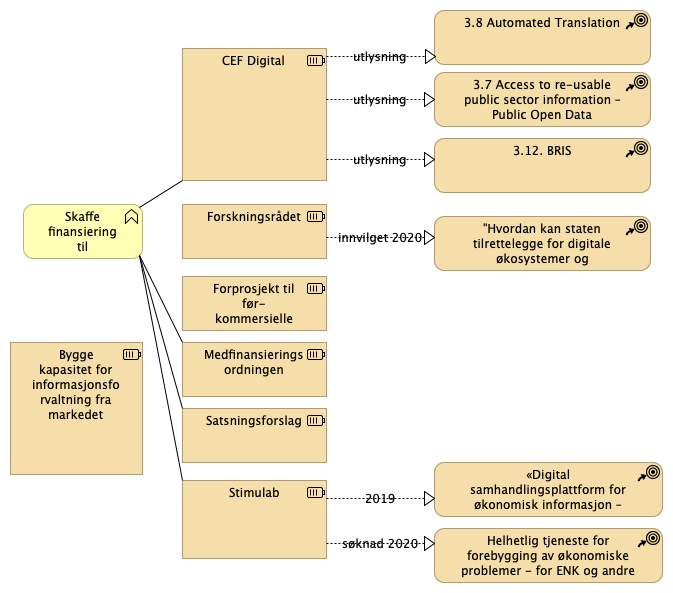
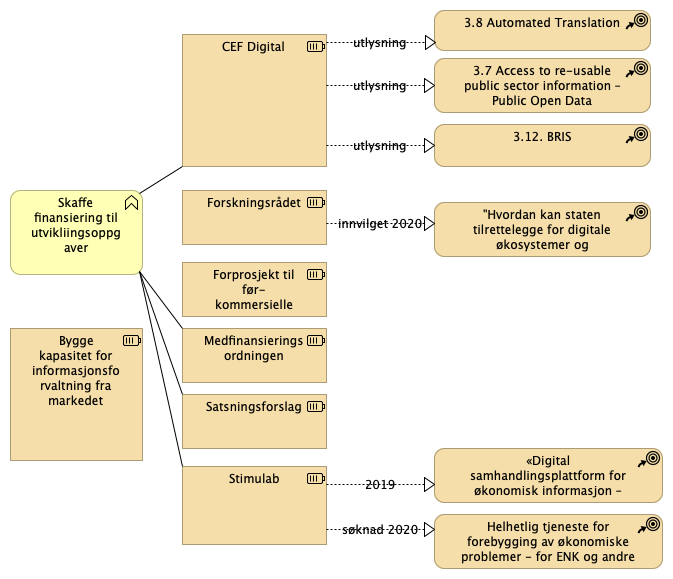
alle

diff --git a/docs/index.html b/docs/index.html
@@ -6602,34 +6602,31 @@
 													<li class="tree-element"><a href="id-0322705d/views/id-ae7a07ff-560a-4ee5-bb5e-4209e7fe1ad7.html" target="view"> OPS Fiskeri Organisering </a></li>
 
 									</ul>
-									</li><li class="tree-folder"><span><i class="glyphicon glyphicon-triangle-right"></i> Tiltak: eBevis </span>
-									<ul>
-													<li class="tree-element"><a href="id-0322705d/views/id-fbf96127-5b08-434a-8238-e8be6e1dd333.html" target="view"> Dokumentasjonsbevis </a></li>
-
-									</ul>
 									</li><li class="tree-folder"><span><i class="glyphicon glyphicon-triangle-right"></i> OPS Energi </span>
 									<ul>
 													<li class="tree-element"><a href="id-0322705d/views/id-5dade1fe-f679-4ad7-92e1-ae2fa38d5638.html" target="view"> OPS Energi Organisering </a></li>
 
 									</ul>
-									</li><li class="tree-folder"><span><i class="glyphicon glyphicon-triangle-right"></i> Datadreven utvikling </span>
+									</li><li class="tree-folder"><span><i class="glyphicon glyphicon-triangle-right"></i> BR Organisering og Oppgaver DU </span>
 									<ul>
-													<li class="tree-element"><a href="id-0322705d/views/id-b68aa9a6-af9c-462a-a1f2-58fa3a24ccb5.html" target="view"> Funksjoner DU </a></li>
-													<li class="tree-element"><a href="id-0322705d/views/id-5e897cc8-b9cf-4923-85ce-6d3dbacc1854.html" target="view"> Kapabiliteter DU </a></li>
-													<li class="tree-element"><a href="id-0322705d/views/id-fdd09a54-40d4-4387-a013-e320820d11c4.html" target="view"> Kapabiliteter informasjonsforvaltning detaljert </a></li>
-													<li class="tree-element"><a href="id-0322705d/views/id-6ef4d0d0-d5dd-4c4e-9847-530d4740ff40.html" target="view"> Kapabiliteter informasjonsforvaltning </a></li>
 													<li class="tree-element"><a href="id-0322705d/views/id-3389b170-07ce-484c-b70a-a92ce2b87f3b.html" target="view"> DU oppgaver </a></li>
 													<li class="tree-element"><a href="id-0322705d/views/id-cfd26d92-cf31-4c1c-969f-2cd84c655996.html" target="view"> DU oppgaver fordeling </a></li>
-													<li class="tree-element"><a href="id-0322705d/views/b2ff6798-cd7a-4acb-848a-df242cb8a83b.html" target="view"> Begreper </a></li>
-
-									</ul>
-									</li><li class="tree-folder"><span><i class="glyphicon glyphicon-triangle-right"></i> Tiltak </span>
-									<ul>
-													<li class="tree-element"><a href="id-0322705d/views/id-bc000f19-79e0-40e3-8402-840b3177a91d.html" target="view"> Tiltak Alle </a></li>
 
 									</ul>
 									</li><li class="tree-folder"><span><i class="glyphicon glyphicon-triangle-right"></i> OPS Finans (DSOP) </span>
 									<ul>
+										<li class="tree-folder"><span><i class="glyphicon glyphicon-triangle-right"></i> Tiltak: Digital selskapsetablering </span>
+											<ul>
+															<li class="tree-element"><a href="id-0322705d/views/id-fdb2561f.html" target="view"> Stiftelse av aksjeselskap </a></li>
+															<li class="tree-element"><a href="id-0322705d/views/id-0d6c834d-8650-4ffa-9906-c83b3e62c83c.html" target="view"> Digital Selskapsetablering </a></li>
+
+											</ul>
+											</li><li class="tree-folder"><span><i class="glyphicon glyphicon-triangle-right"></i> Tiltak: Samtykkebasert lånesøknad </span>
+											<ul>
+															<li class="tree-element"><a href="id-0322705d/views/id-76dcaf83.html" target="view"> EFF-Altinn samtykke </a></li>
+
+											</ul>
+											</li>
 													<li class="tree-element"><a href="id-0322705d/views/id-b8a2070e-1f3c-4765-bcf3-1e1262d0ae2f.html" target="view"> DSOP Organisering </a></li>
 													<li class="tree-element"><a href="id-0322705d/views/id-c321509b-ab14-4518-84a6-b6e860ea312f.html" target="view"> DSOP Seminar </a></li>
 
@@ -6643,16 +6640,24 @@
 															<li class="tree-element"><a href="id-0322705d/views/id-ad96c24b-b7ef-4ef9-8ce0-36fb66c126a5.html" target="view"> Business Process Kj&#248;p og salg av eiendom </a></li>
 
 											</ul>
+											</li><li class="tree-folder"><span><i class="glyphicon glyphicon-triangle-right"></i> Tiltak: Nasjonal termbase </span>
+											<ul>
+															<li class="tree-element"><a href="id-0322705d/views/id-6892547c-7db5-41e1-901c-516d6dd8ac38.html" target="view"> Optrinn: Nasjonal termbase for produktinformasjon </a></li>
+
+											</ul>
+											</li><li class="tree-folder"><span><i class="glyphicon glyphicon-triangle-right"></i> Tiltak: Produktkatalog </span>
+											<ul>
+															<li class="tree-element"><a href="id-0322705d/views/id-e3105262-32a7-465f-9514-6c583a2c910c.html" target="view"> Produktkatalog </a></li>
+
+											</ul>
 											</li>
-													<li class="tree-element"><a href="id-0322705d/views/id-6892547c-7db5-41e1-901c-516d6dd8ac38.html" target="view"> Optrinn: Nasjonal termbase for produktinformasjon </a></li>
 													<li class="tree-element"><a href="id-0322705d/views/id-615ff790-0373-4f18-acf6-a7c9263a9eec.html" target="view"> OPS Bygg Organisering </a></li>
-													<li class="tree-element"><a href="id-0322705d/views/id-e3105262-32a7-465f-9514-6c583a2c910c.html" target="view"> Produktkatalog </a></li>
 													<li class="tree-element"><a href="id-0322705d/views/id-8f152feb-443a-44f3-9e06-ffa7ef3c705b.html" target="view"> OPS Bygg Tiltak </a></li>
 
 									</ul>
-									</li><li class="tree-folder"><span><i class="glyphicon glyphicon-triangle-right"></i> Arenaer </span>
+									</li><li class="tree-folder"><span><i class="glyphicon glyphicon-triangle-right"></i> BR Eksterne arenaer DU </span>
 									<ul>
-													<li class="tree-element"><a href="id-0322705d/views/id-ba050ff7-db2a-47de-84e9-d0b5ea75b589.html" target="view"> Arenaer private-offentlig (Norstella, Open Innovation Lab) </a></li>
+													<li class="tree-element"><a href="id-0322705d/views/id-ba050ff7-db2a-47de-84e9-d0b5ea75b589.html" target="view"> Arenaer Private-offentlig (Norstella, Open Innovation Lab) </a></li>
 													<li class="tree-element"><a href="id-0322705d/views/id-c8de703a-e41c-4fca-8f6f-d56544dbb18f.html" target="view"> Arenaer Offentlige </a></li>
 
 									</ul>
@@ -6663,28 +6668,20 @@
 													<li class="tree-element"><a href="id-0322705d/views/id-06388a03-b47c-4f8d-b36f-e285c281de4c.html" target="view"> Tiltak OPS </a></li>
 
 									</ul>
-									</li><li class="tree-folder"><span><i class="glyphicon glyphicon-triangle-right"></i> Tiltak: Grunn </span>
-									<ul>
-									</ul>
-									</li><li class="tree-folder"><span><i class="glyphicon glyphicon-triangle-right"></i> Tiltak: Samtykkebasert lånesøknad </span>
-									<ul>
-													<li class="tree-element"><a href="id-0322705d/views/id-76dcaf83.html" target="view"> EFF-Altinn samtykke </a></li>
-
-									</ul>
-									</li><li class="tree-folder"><span><i class="glyphicon glyphicon-triangle-right"></i> Tiltak: Digital selskapsetablering </span>
-									<ul>
-													<li class="tree-element"><a href="id-0322705d/views/id-fdb2561f.html" target="view"> Stiftelse av aksjeselskap </a></li>
-													<li class="tree-element"><a href="id-0322705d/views/id-0d6c834d-8650-4ffa-9906-c83b3e62c83c.html" target="view"> Digital Selskapsetablering </a></li>
-
-									</ul>
 									</li><li class="tree-folder"><span><i class="glyphicon glyphicon-triangle-right"></i> OPS Landbruk </span>
 									<ul>
-													<li class="tree-element"><a href="id-0322705d/views/id-94381a75-4449-4ca3-8db7-c6d6c2c6c875.html" target="view"> OPS Landbruk Eierskap til data B&#230;rekraftsdata </a></li>
+										<li class="tree-folder"><span><i class="glyphicon glyphicon-triangle-right"></i> Tiltak: Eierskap </span>
+											<ul>
+															<li class="tree-element"><a href="id-0322705d/views/id-5c2fd4f1-eeaf-4fc0-b4b7-b1951096e8c8.html" target="view"> Prosjekt: Eierskap til data i landbruk, havbruk og myndigheter workshop </a></li>
+															<li class="tree-element"><a href="id-0322705d/views/id-94381a75-4449-4ca3-8db7-c6d6c2c6c875.html" target="view"> OPS Landbruk Eierskap til data B&#230;rekraftsdata </a></li>
+															<li class="tree-element"><a href="id-0322705d/views/id-6b653323-c4dc-4d83-b4cc-8d9aca45cfb7.html" target="view"> OPS Landbruk Eierskapsmodell </a></li>
+															<li class="tree-element"><a href="id-0322705d/views/id-a71c078f-7731-4841-a97e-a94969fcf7fd.html" target="view"> OPS Landbruk Kickoff </a></li>
+															<li class="tree-element"><a href="id-0322705d/views/id-b1ae1a17-19f8-4930-8b27-c69ba70474cf.html" target="view"> B&#230;rekraft </a></li>
+
+											</ul>
+											</li>
 													<li class="tree-element"><a href="id-0322705d/views/id-bee9a375-3ad5-4704-8a63-47ffc7585462.html" target="view"> OPS Landbruk Tiltak </a></li>
-													<li class="tree-element"><a href="id-0322705d/views/id-b1ae1a17-19f8-4930-8b27-c69ba70474cf.html" target="view"> B&#230;rekraft </a></li>
 													<li class="tree-element"><a href="id-0322705d/views/id-1f8471a7-e00e-4d7d-88b1-596d06dd9de6.html" target="view"> OPS Landbruk Organisering </a></li>
-													<li class="tree-element"><a href="id-0322705d/views/id-6b653323-c4dc-4d83-b4cc-8d9aca45cfb7.html" target="view"> OPS Landbruk Eierskapsmodell </a></li>
-													<li class="tree-element"><a href="id-0322705d/views/id-a71c078f-7731-4841-a97e-a94969fcf7fd.html" target="view"> OPS Landbruk Kickoff </a></li>
 
 									</ul>
 									</li><li class="tree-folder"><span><i class="glyphicon glyphicon-triangle-right"></i> BR Registre </span>
@@ -6693,17 +6690,16 @@
 													<li class="tree-element"><a href="id-0322705d/views/id-c2a9729f-a8ce-44f1-a67f-eb549720fbc6.html" target="view"> Oppdragsgivere </a></li>
 
 									</ul>
-									</li><li class="tree-folder"><span><i class="glyphicon glyphicon-triangle-right"></i> Tiltak: Eierskap </span>
-									<ul>
-													<li class="tree-element"><a href="id-0322705d/views/id-5c2fd4f1-eeaf-4fc0-b4b7-b1951096e8c8.html" target="view"> Prosjekt: Eierskap til data i landbruk, havbruk og myndigheter workshop </a></li>
-
-									</ul>
 									</li><li class="tree-folder"><span><i class="glyphicon glyphicon-triangle-right"></i> OPS Økonomi </span>
 									<ul>
+										<li class="tree-folder"><span><i class="glyphicon glyphicon-triangle-right"></i> Tiltak: Gjeldsfloka </span>
+											<ul>
+															<li class="tree-element"><a href="id-0322705d/views/3127e748-bef0-488e-826e-7c8f74534790.html" target="view"> &#171;Digital samhandlingsplattform for &#248;konomisk informasjon &#8211; gjeldsr&#229;dgivning&#187; aka "Gjeldsfloka" for Enkeltpersonforetak/Profesjonelle verger </a></li>
+
+											</ul>
+											</li>
 													<li class="tree-element"><a href="id-0322705d/views/id-f23e149a-e1e4-4cb2-b86f-aabb3e79aff4.html" target="view"> OPS &#216;konomi Organisering </a></li>
-													<li class="tree-element"><a href="id-0322705d/views/id-a89ba9e4-0c9b-4d80-b1b5-528c3adf167e.html" target="view"> Gjeldsr&#229;dgiving </a></li>
 													<li class="tree-element"><a href="id-0322705d/views/be0a9093-4101-4c42-b556-f277e6303c03.html" target="view"> OPS &#216;konomi Tiltak </a></li>
-													<li class="tree-element"><a href="id-0322705d/views/3127e748-bef0-488e-826e-7c8f74534790.html" target="view"> &#171;Digital samhandlingsplattform for &#248;konomisk informasjon &#8211; gjeldsr&#229;dgivning&#187; aka "Gjeldsfloka" for Enkeltpersonforetak/Profesjonelle verger </a></li>
 
 									</ul>
 									</li><li class="tree-folder"><span><i class="glyphicon glyphicon-triangle-right"></i> OPS Havbruk </span>
@@ -6725,9 +6721,37 @@
 													<li class="tree-element"><a href="id-0322705d/views/id-ce8c911d-b6bc-42d0-ba95-c33c240261c2.html" target="view"> Digitaliseringstrategien </a></li>
 
 									</ul>
+									</li><li class="tree-folder"><span><i class="glyphicon glyphicon-triangle-right"></i> Samarbeid Tilsyn </span>
+									<ul>
+									</ul>
+									</li><li class="tree-folder"><span><i class="glyphicon glyphicon-triangle-right"></i> Samarbeid Eierskap og svart økonomi </span>
+									<ul>
+										<li class="tree-folder"><span><i class="glyphicon glyphicon-triangle-right"></i> Tiltak: eBevis </span>
+											<ul>
+															<li class="tree-element"><a href="id-0322705d/views/id-fbf96127-5b08-434a-8238-e8be6e1dd333.html" target="view"> Dokumentasjonsbevis </a></li>
+
+											</ul>
+											</li>
+									</ul>
+									</li><li class="tree-folder"><span><i class="glyphicon glyphicon-triangle-right"></i> Samarbeid Virkemidler og tilskudd </span>
+									<ul>
+									</ul>
+									</li><li class="tree-folder"><span><i class="glyphicon glyphicon-triangle-right"></i> Livshendelse: Starte og Drive frivillig virksomhet </span>
+									<ul>
+									</ul>
+									</li><li class="tree-folder"><span><i class="glyphicon glyphicon-triangle-right"></i> BR Evner DU </span>
+									<ul>
+													<li class="tree-element"><a href="id-0322705d/views/id-6ef4d0d0-d5dd-4c4e-9847-530d4740ff40.html" target="view"> Kapabiliteter informasjonsforvaltning </a></li>
+													<li class="tree-element"><a href="id-0322705d/views/id-fdd09a54-40d4-4387-a013-e320820d11c4.html" target="view"> Kapabiliteter informasjonsforvaltning detaljert </a></li>
+													<li class="tree-element"><a href="id-0322705d/views/id-5e897cc8-b9cf-4923-85ce-6d3dbacc1854.html" target="view"> Kapabiliteter DU </a></li>
+													<li class="tree-element"><a href="id-0322705d/views/id-b68aa9a6-af9c-462a-a1f2-58fa3a24ccb5.html" target="view"> Funksjoner DU </a></li>
+													<li class="tree-element"><a href="id-0322705d/views/b2ff6798-cd7a-4acb-848a-df242cb8a83b.html" target="view"> Begreper </a></li>
+													<li class="tree-element"><a href="id-0322705d/views/id-74fbe580.html" target="view"> Informasjonsforvaltning begrepsmodell </a></li>
+
+									</ul>
 									</li>
-											<li class="tree-element"><a href="id-0322705d/views/id-74fbe580.html" target="view"> Informasjonsforvaltning begrepsmodell </a></li>
 											<li class="tree-element"><a href="id-0322705d/views/a4613a5a-7c10-4e6b-b9b2-09b5cbeacffc.html" target="view"> Finansielle instrumenter </a></li>
+											<li class="tree-element"><a href="id-0322705d/views/id-bc000f19-79e0-40e3-8402-840b3177a91d.html" target="view"> Tiltak Alle </a></li>
 
 							</ul>
 						</li>

diff --git a/docs/id-0322705d/elements/model.html b/docs/id-0322705d/elements/model.html
@@ -3196,22 +3196,19 @@
 											<!-- DEBUG: Skipping view OPS Fiskeri Organisering -->
 
 
-											<!-- DEBUG: Skipping view Dokumentasjonsbevis -->
-
-
 											<!-- DEBUG: Skipping view OPS Energi Organisering -->
 
 
-											<!-- DEBUG: Skipping view Funksjoner DU -->
-											<!-- DEBUG: Skipping view Kapabiliteter DU -->
-											<!-- DEBUG: Skipping view Kapabiliteter informasjonsforvaltning detaljert -->
-											<!-- DEBUG: Skipping view Kapabiliteter informasjonsforvaltning -->
 											<!-- DEBUG: Skipping view DU oppgaver -->
 											<!-- DEBUG: Skipping view DU oppgaver fordeling -->
-											<!-- DEBUG: Skipping view Begreper -->
 
 
-											<!-- DEBUG: Skipping view Tiltak Alle -->
+												<!-- DEBUG: Skipping view Stiftelse av aksjeselskap -->
+												<!-- DEBUG: Skipping view Digital Selskapsetablering -->
+
+
+												<!-- DEBUG: Skipping view EFF-Altinn samtykke -->
+
 
 
 											<!-- DEBUG: Skipping view DSOP Organisering -->
@@ -3223,14 +3220,18 @@
 												<!-- DEBUG: Skipping view Business Process Kjøp og salg av eiendom -->
 
 
+												<!-- DEBUG: Skipping view Optrinn: Nasjonal termbase for produktinformasjon -->
 
-											<!-- DEBUG: Skipping view Optrinn: Nasjonal termbase for produktinformasjon -->
+
+												<!-- DEBUG: Skipping view Produktkatalog -->
+
+
+
 											<!-- DEBUG: Skipping view OPS Bygg Organisering -->
-											<!-- DEBUG: Skipping view Produktkatalog -->
 											<!-- DEBUG: Skipping view OPS Bygg Tiltak -->
 
 
-											<!-- DEBUG: Skipping view Arenaer private-offentlig (Norstella, Open Innovation Lab) -->
+											<!-- DEBUG: Skipping view Arenaer Private-offentlig (Norstella, Open Innovation Lab) -->
 											<!-- DEBUG: Skipping view Arenaer Offentlige -->
 
 
@@ -3239,32 +3240,28 @@
 											<!-- DEBUG: Skipping view Tiltak OPS -->
 
 
-											<!-- DEBUG: Skipping view EFF-Altinn samtykke -->
+												<!-- DEBUG: Skipping view Prosjekt: Eierskap til data i landbruk, havbruk og myndigheter workshop -->
+												<!-- DEBUG: Skipping view OPS Landbruk Eierskap til data Bærekraftsdata -->
+												<!-- DEBUG: Skipping view OPS Landbruk Eierskapsmodell -->
+												<!-- DEBUG: Skipping view OPS Landbruk Kickoff -->
+												<!-- DEBUG: Skipping view Bærekraft -->
 
 
-											<!-- DEBUG: Skipping view Stiftelse av aksjeselskap -->
-											<!-- DEBUG: Skipping view Digital Selskapsetablering -->
 
-
-											<!-- DEBUG: Skipping view OPS Landbruk Eierskap til data Bærekraftsdata -->
 											<!-- DEBUG: Skipping view OPS Landbruk Tiltak -->
-											<!-- DEBUG: Skipping view Bærekraft -->
 											<!-- DEBUG: Skipping view OPS Landbruk Organisering -->
-											<!-- DEBUG: Skipping view OPS Landbruk Eierskapsmodell -->
-											<!-- DEBUG: Skipping view OPS Landbruk Kickoff -->
 
 
 											<!-- DEBUG: Skipping view Utveksling BR -->
 											<!-- DEBUG: Skipping view Oppdragsgivere -->
 
 
-											<!-- DEBUG: Skipping view Prosjekt: Eierskap til data i landbruk, havbruk og myndigheter workshop -->
+												<!-- DEBUG: Skipping view «Digital samhandlingsplattform for økonomisk informasjon – gjeldsrådgivning» aka "Gjeldsfloka" for Enkeltpersonforetak/Profesjonelle verger -->
+
 
 
 											<!-- DEBUG: Skipping view OPS Økonomi Organisering -->
-											<!-- DEBUG: Skipping view Gjeldsrådgiving -->
 											<!-- DEBUG: Skipping view OPS Økonomi Tiltak -->
-											<!-- DEBUG: Skipping view «Digital samhandlingsplattform for økonomisk informasjon – gjeldsrådgivning» aka "Gjeldsfloka" for Enkeltpersonforetak/Profesjonelle verger -->
 
 
 											<!-- DEBUG: Skipping view Verdikjede -->
@@ -3280,9 +3277,22 @@
 											<!-- DEBUG: Skipping view Digitaliseringstrategien -->
 
 
+												<!-- DEBUG: Skipping view Dokumentasjonsbevis -->
 
-										<!-- DEBUG: Skipping view Informasjonsforvaltning begrepsmodell -->
+
+
+
+											<!-- DEBUG: Skipping view Kapabiliteter informasjonsforvaltning -->
+											<!-- DEBUG: Skipping view Kapabiliteter informasjonsforvaltning detaljert -->
+											<!-- DEBUG: Skipping view Kapabiliteter DU -->
+											<!-- DEBUG: Skipping view Funksjoner DU -->
+											<!-- DEBUG: Skipping view Begreper -->
+											<!-- DEBUG: Skipping view Informasjonsforvaltning begrepsmodell -->
+
+
+
 										<!-- DEBUG: Skipping view Finansielle instrumenter -->
+										<!-- DEBUG: Skipping view Tiltak Alle -->
 
 
 

diff --git a/docs/id-0322705d/views/a4613a5a-7c10-4e6b-b9b2-09b5cbeacffc.html b/docs/id-0322705d/views/a4613a5a-7c10-4e6b-b9b2-09b5cbeacffc.html
@@ -27,20 +27,20 @@
 		<div class="panel-body root-panel-body">
 			<img class="diagram" src="../images/a4613a5a-7c10-4e6b-b9b2-09b5cbeacffc.png" alt="Finansielle instrumenter" usemap="#a4613a5a-7c10-4e6b-b9b2-09b5cbeacffcmap">
 			<map name="a4613a5a-7c10-4e6b-b9b2-09b5cbeacffcmap">
-						<area shape="rect" coords="10,342,143,475" href="../elements/id-8fea0553-ca00-4578-9911-a3f760c3fac2.html"  target="element">
-						<area shape="rect" coords="182,48,327,181" href="../elements/id-216c2d91-ba5a-4e5b-b9a4-0133af111af1.html"  target="element">
-						<area shape="rect" coords="182,276,327,331" href="../elements/id-d7e059c5-5bda-4771-ade5-36154896cb7f.html"  target="element">
-						<area shape="rect" coords="182,204,327,259" href="../elements/af9fe3c6-981b-4cc7-9bde-eb5dd66c0583.html"  target="element">
-						<area shape="rect" coords="182,342,327,397" href="../elements/id-782fc336-58f4-417b-a20f-27721a298868.html"  target="element">
-						<area shape="rect" coords="182,408,327,463" href="../elements/id-151bc1ab-6298-4074-9e46-0e854921d72e.html"  target="element">
-						<area shape="rect" coords="182,480,327,559" href="../elements/id-4ab93c2b-6615-4ae1-bfd1-83ffa3ad87e6.html"  target="element">
-						<area shape="rect" coords="434,10,651,65" href="../elements/id-586edfc9-5399-4447-8183-2075df9a8c95.html"  target="element">
-						<area shape="rect" coords="434,72,651,127" href="../elements/id-7797665a-3afc-4dce-bf68-555317e1cca6.html"  target="element">
-						<area shape="rect" coords="434,138,651,193" href="../elements/id-7980c9e8-f29e-418a-9227-f5534b256042.html"  target="element">
-						<area shape="rect" coords="23,204,143,259" href="../elements/id-25d59a13-96d1-471c-9057-5c5b789fb200.html"  target="element">
-						<area shape="rect" coords="434,216,651,271" href="../elements/3c04b656-2ebb-489e-8b2d-271de576c513.html"  target="element">
-						<area shape="rect" coords="434,462,663,517" href="../elements/id-9c61fd8d-5c7f-4a8b-8316-2eb6334f3f6b.html"  target="element">
-						<area shape="rect" coords="434,528,663,583" href="../elements/id-7c56dfc1-faaf-4955-9c59-74a9dc15a442.html"  target="element">
+						<area shape="rect" coords="10,328,143,461" href="../elements/id-8fea0553-ca00-4578-9911-a3f760c3fac2.html"  target="element">
+						<area shape="rect" coords="182,34,327,167" href="../elements/id-216c2d91-ba5a-4e5b-b9a4-0133af111af1.html"  target="element">
+						<area shape="rect" coords="182,262,327,317" href="../elements/id-d7e059c5-5bda-4771-ade5-36154896cb7f.html"  target="element">
+						<area shape="rect" coords="182,190,327,245" href="../elements/af9fe3c6-981b-4cc7-9bde-eb5dd66c0583.html"  target="element">
+						<area shape="rect" coords="182,328,327,383" href="../elements/id-782fc336-58f4-417b-a20f-27721a298868.html"  target="element">
+						<area shape="rect" coords="182,394,327,449" href="../elements/id-151bc1ab-6298-4074-9e46-0e854921d72e.html"  target="element">
+						<area shape="rect" coords="182,466,327,545" href="../elements/id-4ab93c2b-6615-4ae1-bfd1-83ffa3ad87e6.html"  target="element">
+						<area shape="rect" coords="434,10,651,51" href="../elements/id-586edfc9-5399-4447-8183-2075df9a8c95.html"  target="element">
+						<area shape="rect" coords="434,58,651,113" href="../elements/id-7797665a-3afc-4dce-bf68-555317e1cca6.html"  target="element">
+						<area shape="rect" coords="434,124,651,167" href="../elements/id-7980c9e8-f29e-418a-9227-f5534b256042.html"  target="element">
+						<area shape="rect" coords="10,190,143,275" href="../elements/id-25d59a13-96d1-471c-9057-5c5b789fb200.html"  target="element">
+						<area shape="rect" coords="434,202,651,257" href="../elements/3c04b656-2ebb-489e-8b2d-271de576c513.html"  target="element">
+						<area shape="rect" coords="434,448,663,503" href="../elements/id-9c61fd8d-5c7f-4a8b-8316-2eb6334f3f6b.html"  target="element">
+						<area shape="rect" coords="434,514,663,569" href="../elements/id-7c56dfc1-faaf-4955-9c59-74a9dc15a442.html"  target="element">
 
 			</map>
 			<div role="tabpanel">

diff --git a/docs/id-0322705d/views/id-ba050ff7-db2a-47de-84e9-d0b5ea75b589.html b/docs/id-0322705d/views/id-ba050ff7-db2a-47de-84e9-d0b5ea75b589.html
@@ -2,7 +2,7 @@
 <html class="frame" lang="en">
 <head>
 	<meta http-equiv="Content-Type" content="text/html;charset=utf-8">
-	<title>Arenaer private-offentlig (Norstella, Open Innovation Lab)</title>
+	<title>Arenaer Private-offentlig (Norstella, Open Innovation Lab)</title>
 
 	<!-- JQUERY (use 1.x branch to be compatible with IE 6/7/8) -->
 	<script type="text/javascript" src="../../lib/jquery/js/jquery-1.11.2.min.js"></script>
@@ -20,12 +20,12 @@
 <body>
 	<div class="panel panel-default root-panel">
 		<div class="panel-heading root-panel-heading">
-			<b>Arenaer private-offentlig (Norstella, Open Innovation Lab)</b>
+			<b>Arenaer Private-offentlig (Norstella, Open Innovation Lab)</b>
 			(<span class="i18n-viewpoint-"></span>)
 			<a class="glyphicon glyphicon-info-sign" id="hint-viewpoint_" target="hint"></a>
 		</div>
 		<div class="panel-body root-panel-body">
-			<img class="diagram" src="../images/id-ba050ff7-db2a-47de-84e9-d0b5ea75b589.png" alt="Arenaer private-offentlig (Norstella, Open Innovation Lab)" usemap="#id-ba050ff7-db2a-47de-84e9-d0b5ea75b589map">
+			<img class="diagram" src="../images/id-ba050ff7-db2a-47de-84e9-d0b5ea75b589.png" alt="Arenaer Private-offentlig (Norstella, Open Innovation Lab)" usemap="#id-ba050ff7-db2a-47de-84e9-d0b5ea75b589map">
 			<map name="id-ba050ff7-db2a-47de-84e9-d0b5ea75b589map">
 								<area shape="rect" coords="22,34,251,59" href="../elements/id-2dc3272e-e3d5-4ce5-b331-8c08dfd6967b.html"  target="element">
 
